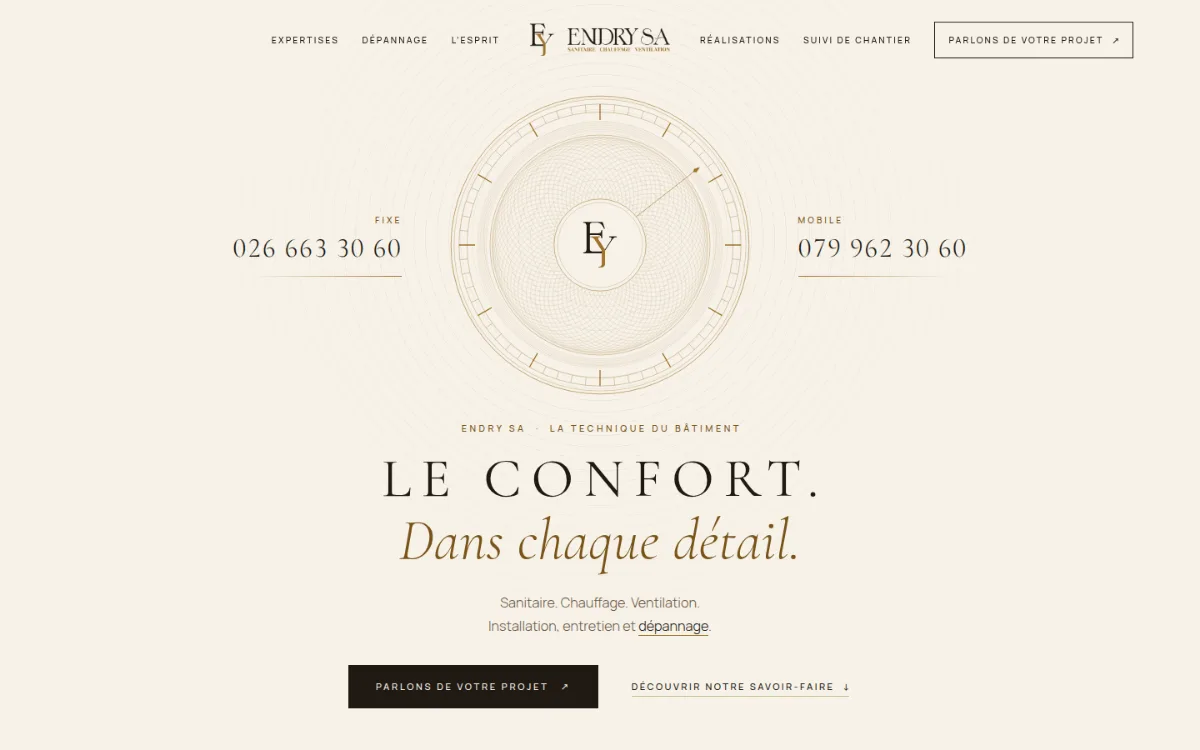
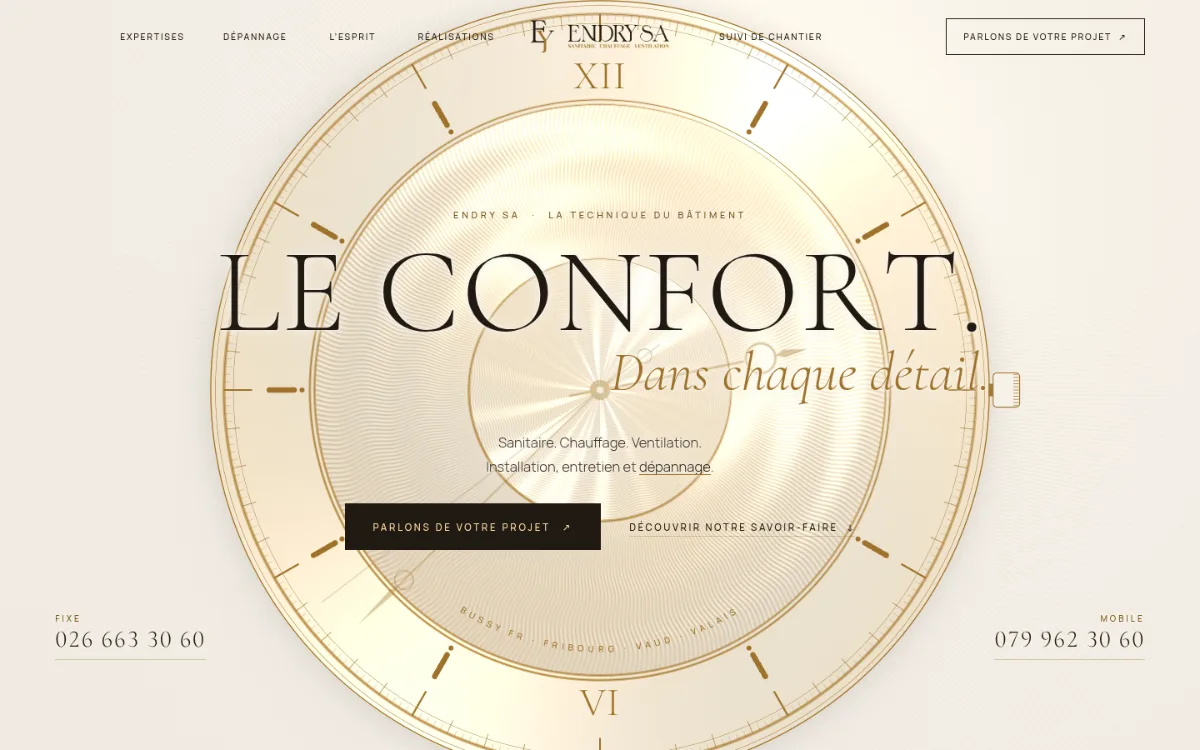
Page de comparaison et aperçus des maquettes animées XIII–XVI
Claude-Session: https://claude.ai/code/session_01Uu6yz3zUtBS9B3cqZkVDuc

diff --git a/public/variantes/index.html b/public/variantes/index.html
@@ -24,7 +24,7 @@
   <section class="intro" aria-labelledby="intro-title">
     <p class="kicker">Direction artistique · Maquettes XIII à XVI</p>
     <h1 id="intro-title">Quatre nouvelles écritures.<br><em>Une même maison.</em></h1>
-    <p class="lede">Le contenu, les coordonnées et le fonctionnement du site restent identiques. Ces maquettes XIII à XVI prolongent la série I à XII sans en reprendre les directions. Chacune propose une mise en scène différente de l’identité Endry SA : or clair, bronze et brun du logo, calme, précision et chaleur.</p>
+    <p class="lede">Le contenu, les coordonnées et le fonctionnement du site restent identiques. Chaque maquette est animée (défilement fluide, séquences épinglées, WebGL) et reste complète sans animation. Ces maquettes XIII à XVI prolongent la série I à XII sans en reprendre les directions. Chacune propose une mise en scène différente de l’identité Endry SA : or clair, bronze et brun du logo, calme, précision et chaleur.</p>
     <ul class="palette" aria-label="Couleurs du logo">
       <li><span style="background:#f9dba3"></span>Or clair <code>#F9DBA3</code></li>
       <li><span style="background:#9f722a"></span>Bronze <code>#9F722A</code></li>
@@ -40,7 +40,7 @@
           <span class="variant-letter" aria-hidden="true">XIII</span>
           <h2>Manufacture</h2>
           <p class="variant-mood">La haute horlogerie suisse.</p>
-          <p>Ivoire nacré, composition centrée et symétrique comme un cadran, guillochés gravés en bronze, petites capitales. Les trois métiers deviennent trois « complications ».</p>
+          <p>On remonte la couronne : le cadran s’assemble et s’ouvre sur le héros. Guilloché métallique en WebGL dont le reflet suit le pointeur, métiers en complications sur un cadran qui tourne au défilement, rouages de la méthode, curseur loupe d’horloger.</p>
           <span class="variant-cta">Ouvrir la maquette <span aria-hidden="true">→</span></span>
         </div>
       </a>
@@ -52,7 +52,7 @@
           <span class="variant-letter" aria-hidden="true">XIV</span>
           <h2>Palace</h2>
           <p class="variant-mood">Le lobby d’un grand hôtel Art déco.</p>
-          <p>L’or clair du logo en grands aplats, alterné avec le brun. Éventails, gradins et cadres chanfreinés, capitales Italiana en écho au lettrage « ENDRY SA ».</p>
+          <p>Des portes d’ascenseur en laiton s’ouvrent sur un soleil en feuille d’or (WebGL) dont le reflet suit le pointeur. Les métiers se découvrent porte après porte, la méthode monte d’étage en étage, un indicateur d’étage suit la page.</p>
           <span class="variant-cta">Ouvrir la maquette <span aria-hidden="true">→</span></span>
         </div>
       </a>
@@ -64,7 +64,7 @@
           <span class="variant-letter" aria-hidden="true">XV</span>
           <h2>Matière</h2>
           <p class="variant-mood">Un showroom de matériaux nobles.</p>
-          <p>Grille de tuiles façon nuancier : bronze brossé, laiton, travertin, noyer et lin rendus en CSS. Sans-serif géométrique, fiches techniques, reflets au survol.</p>
+          <p>Les échantillons tombent et s’assemblent en grille. Bronze, laiton et travertin éclairés en temps réel comme sous une lampe qu’on déplace, métiers qui changent de matière au défilement, réalisations qui se recomposent.</p>
           <span class="variant-cta">Ouvrir la maquette <span aria-hidden="true">→</span></span>
         </div>
       </a>
@@ -76,7 +76,7 @@
           <span class="variant-letter" aria-hidden="true">XVI</span>
           <h2>Thermes</h2>
           <p class="variant-mood">Des bains alpins en fin de journée.</p>
-          <p>Crème, sable et lumière dorée. Arches et niches de pierre, bassins elliptiques, en-tête flottant en pilule, typographie aérienne. La plus douce et la plus sensorielle.</p>
+          <p>Une goutte dorée tombe dans le bassin. Le héros se voit à travers l’eau (ondes au pointeur, caustiques, vapeur), l’arche s’ouvre en plein écran, les trois bassins se traversent à l’horizontale et la méthode se remplit.</p>
           <span class="variant-cta">Ouvrir la maquette <span aria-hidden="true">→</span></span>
         </div>
       </a>

diff --git a/README.md b/README.md
@@ -57,4 +57,4 @@ Quatre nouvelles directions artistiques du site vitrine, dans `public/variantes/
 - **XV · Matière** — nuancier de matériaux en grille de tuiles : bronze brossé, laiton, travertin, noyer, lin (CSS).
 - **XVI · Thermes** — bains alpins : arches, bassins elliptiques, lumière dorée.
 
-Même contenu, mêmes coordonnées et même formulaire que `index.html` (réutilisation de `site.js`). Logo d’origine uniquement : `logo-transparent.png` sur fonds sombres, `logo-encre.png` (lettrage brun et bronze) sur fonds clairs, tous deux détourés du logo sans redessin. Polices OFL auto-hébergées (`public/variantes/fonts/`), aucune ressource tierce. Pages en `noindex`. La barre « Maquette XIII · … » en bas à gauche (`review.css`, `variantes.js`) sert à la revue et se retire à la mise en production de la variante retenue.
+Version animée niveau « Site of the Day » : défilement fluide (Lenis), séquences épinglées et révélations (GSAP ScrollTrigger, SplitText), un moment WebGL par maquette, curseur et boutons magnétiques ; sans animation (mouvement réduit, sans JS) chaque page reste complète. Bibliothèques en copies locales dans `public/variantes/vendor/` (voir `LICENCES.md`). Même contenu, mêmes coordonnées et même formulaire que `index.html` (réutilisation de `site.js`). Logo d’origine uniquement : `logo-transparent.png` sur fonds sombres, `logo-encre.png` (lettrage brun et bronze) sur fonds clairs, tous deux détourés du logo sans redessin. Polices OFL auto-hébergées (`public/variantes/fonts/`), aucune ressource tierce. Pages en `noindex`. La barre « Maquette XIII · … » en bas à gauche (`review.css`, `variantes.js`) sert à la revue et se retire à la mise en production de la variante retenue.
